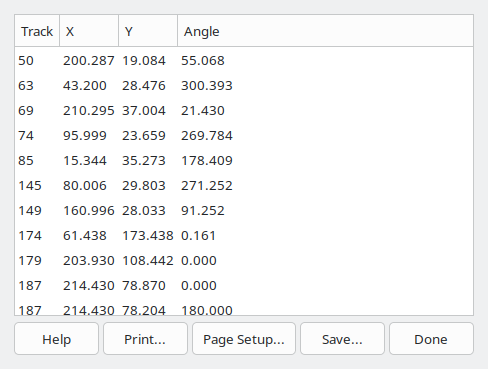
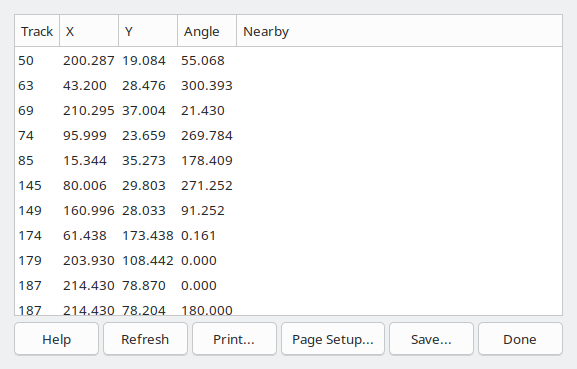
reports: add Nearby-endpoint flag/grouping and a Refresh button
Nearby: flags an unconnected endpoint when another one, on a different
track, lies within connectDistance (the same threshold the editor
itself uses to decide whether two endpoints are close enough to
connect) -- likely a missed connection rather than a deliberate
dead-end stub. Flagged rows are grouped first via a stable reorder of
reportsCurrentList_da; every row stays in the list, nothing is
filtered. Same-track pairs (e.g. a turntable's own spokes) never flag
each other.

Checked LISTCOL_ERROR_COLOR (the GtkListStore column wlib's list infra
reserves for row-highlighting) before building anything new: it's
registered as a column type but nothing in treeview.c/list.c actually
reads it, so leaning on it would mean fixing shared gtk3lib code well
beyond this report's scope. A plain "Nearby" list column plus default
row-order grouping avoids that.

Refresh: recomputes the report in place (no dialog close/reopen).
Wired through a small reportsRefreshProc function pointer set by
whichever report type is currently showing, so the shared dialog
handler doesn't need to hardcode phase-1 specifics -- any future
report phase sets the same hook when it calls ReportsShowText().

Verified both against the live layout23.xtc fixture and via gdb:
computed the real minimum cross-track distance offline (0.137, just
outside the 0.1 default threshold) to confirm the all-blank Nearby
column on that fixture is correct, not a bug; separately proved the
[…]

diff --git a/app/bin/reports.c b/app/bin/reports.c
@@ -1,18 +1,27 @@
 /** \file reports.c
- * Native "Reports" feature (SF #217), phase 1: a generic report-text
- * viewer (Save/Print/Print Setup, same shape as denum.c's "Parts List"
- * dialog -- see the phase-1 implementation plan for why this is built
+ * Native "Reports" feature (SF #217), phase 1: a generic report viewer
+ * (Refresh/Save/Print/Print Setup, same button shape as denum.c's "Parts
+ * List" dialog -- see the phase-1 implementation plan for why this is built
  * generic from the start, meant for every future report phase to reuse)
  * plus the phase-1 report itself, unconnected track endpoints.
  *
  * Phase 1.5 (SF #772, folded into the same ticket -- see the phase-1.5
  * implementation plan) adds interactive click-to-navigate: selecting a row
- * in the (new, alongside the original text view) list control pans the
- * main canvas to that endpoint and draws a transient open-circle
- * indicator. The indicator is a pure draw-overlay (drawn each redraw from
- * draw.c's DrawTempContent(), see ReportsDrawIndicator()) -- never a real
- * track object, so it can never end up in a saved .xtc/.xtce file and
- * needs no undo/redo handling.
+ * in the visible PD_LIST control pans the main canvas to that endpoint and
+ * draws a transient open-circle indicator. The indicator is a pure
+ * draw-overlay (drawn each redraw from draw.c's DrawTempContent(), see
+ * ReportsDrawIndicator()) -- never a real track object, so it can never end
+ * up in a saved .xtc/.xtce file and needs no undo/redo handling.
+ *
+ * The list is also grouped/flagged for "Nearby" endpoints -- see
+ * ReportsMarkNearby() -- and can be recomputed in place via the Refresh
+ * button (reportsRefreshProc) without closing/reopening the dialog.
+ *
+ * Save/Print build their output on demand (ReportsBuildText()/
+ * ReportsRefreshPrintText()) into a hidden PD_TEXT-equivalent control
+ * (reportsT) that's never shown to the user -- see ReportsShowText() for why
+ * it's created via wTextCreate()'s standalone/no-.ui-needed code path
+ * rather than as a builder-bound paramData_t entry.
  *
  * The date-header logic (AddReportDateString()) is deliberately duplicated
  * from denum.c's AddDateString() rather than shared, to keep this
@@ -52,6 +61,7 @@
 #include "paths.h"
 #include "scale.h"
 #include "track.h"
+#include "utility.h"
 #include "include/reports.h"
 
 static wControl_p reportsW;
@@ -64,23 +74,33 @@ static wControl_p reportsW;
  * see that call site for why. */
 static wControl_p reportsT;
 
-#define REPORTSOP_SAVE  (1)
-#define REPORTSOP_PRINT (2)
+#define REPORTSOP_SAVE    (1)
+#define REPORTSOP_PRINT   (2)
+#define REPORTSOP_REFRESH (3)
+
+/** Set by whichever report type is currently showing (only
+ * ReportsUnconnectedEndpoints() today) each time it calls ReportsShowText(),
+ * so the generic Refresh button can recompute + repopulate the current
+ * report in place without this shared viewer needing to know which specific
+ * report is active. Any future report phase should set this the same way
+ * when it calls ReportsShowText(). */
+static void (*reportsRefreshProc)(void *) = NULL;
 
 static void DoReportsOp(void *data);
 static void ReportsDlgUpdate(paramGroup_p pg, int inx, void *valueP);
 static void ReportsCancel(paramGroup_p pg);
 
-static wWinPix_t reportsListWidths[] = { 60, 80, 80, 70 };
+static wWinPix_t reportsListWidths[] = { 60, 80, 80, 70, 60 };
 static const char * reportsListTitles[] = {
-	N_("Track"), N_("X"), N_("Y"), N_("Angle")
+	N_("Track"), N_("X"), N_("Y"), N_("Angle"), N_("Nearby")
 };
-static paramListData_t reportsListData = { 8, 300, 4, reportsListWidths, reportsListTitles };
+static paramListData_t reportsListData = { 8, 300, 5, reportsListWidths, reportsListTitles };
 
 static paramData_t reportsPLs[] = {
 #define I_REPORTSLIST (0)
 #define reportsList (reportsPLs[I_REPORTSLIST].control)
 	{ PD_LIST, NULL, "list", PDO_DLGRESIZE, &reportsListData, NULL, 0 },
+	{ PD_BUTTON, DoReportsOp, "refresh", 0, NULL, NULL, 0, I2VP(REPORTSOP_REFRESH) },
 	{ PD_BUTTON, DoReportsOp, "save", PDO_DLGCMDBUTTON, NULL, NULL, 0, I2VP(REPORTSOP_SAVE) },
 	{ PD_BUTTON, DoReportsOp, "print", 0, NULL, NULL, 0, I2VP(REPORTSOP_PRINT) },
 	{ PD_BUTTON, wPrintSetup, "printsetup", 0, NULL, NULL, 0, NULL },
@@ -141,6 +161,11 @@ static void DoReportsOp(
 	case REPORTSOP_PRINT:
 		ReportsRefreshPrintText();
 		wTextPrint( reportsT );
+		break;
+	case REPORTSOP_REFRESH:
+		if ( reportsRefreshProc ) {
+			reportsRefreshProc( NULL );
+		}
 		break;
 	default:
 		break;
@@ -353,12 +378,70 @@ static void ReportsAddHeader(DynString *out, const char *reportTitle)
 	AddReportDateString(out);
 }
 
+/** Flag entries with another open endpoint, on a *different* track, within
+ * connectDistance (track.h -- the same threshold/definition of "close
+ * enough to connect" used throughout track.c/cturnout.c/ccornu.c/etc.), then
+ * group flagged entries first in reportsCurrentList_da -- a default row
+ * order, not a filter, every entry stays present either way. Endpoints on
+ * the *same* track (e.g. a turntable's own spokes) never flag each other --
+ * those are expected to sit close together and aren't a missed connection.
+ * O(n^2) distance check; fine at this report's realistic scale (checked
+ * against the layout23.xtc fixture, 100+ rows). Must run after the compute
+ * loop that fills reportsCurrentList_da and before ReportsPopulateList(),
+ * since row order here becomes list row order there. */
+static void ReportsMarkNearby(void)
+{
+	int i, j, cnt, outIdx;
+	reportsEndPt_t *entries;
+	reportsEndPt_t *grouped;
+
+	cnt = reportsCurrentList_da.cnt;
+	if ( cnt == 0 ) {
+		return;
+	}
+	entries = (reportsEndPt_t *)reportsCurrentList_da.ptr;
+
+	for ( i = 0; i < cnt; i++ ) {
+		entries[i].nearby = FALSE;
+	}
+	for ( i = 0; i < cnt; i++ ) {
+		for ( j = i + 1; j < cnt; j++ ) {
+			if ( entries[i].trackId == entries[j].trackId ) {
+				continue;
+			}
+			if ( FindDistance(entries[i].pos, entries[j].pos) <= connectDistance ) {
+				entries[i].nearby = TRUE;
+				entries[j].nearby = TRUE;
+			}
+		}
+	}
+
+	grouped = malloc( cnt * sizeof *grouped );
+	outIdx = 0;
+	for ( i = 0; i < cnt; i++ ) {
+		if ( entries[i].nearby ) {
+			grouped[outIdx++] = entries[i];
+		}
+	}
+	for ( i = 0; i < cnt; i++ ) {
+		if ( !entries[i].nearby ) {
+			grouped[outIdx++] = entries[i];
+		}
+	}
+	memcpy( entries, grouped, cnt * sizeof *grouped );
+	free( grouped );
+}
+
 /** Populate the interactive list (phase 1.5) from reportsCurrentList_da --
  * one row per entry, tab-separated (wListAddValue() splits on tabs into
  * columns), each row's context set to that entry's address so
  * ReportsDlgUpdate() can recover it on selection. Must run after
  * ReportsShowText() has run at least once (the list control doesn't exist
- * before the dialog's first creation). */
+ * before the dialog's first creation).
+ *
+ * Rows are shown in reportsCurrentList_da's own order -- ReportsMarkNearby()
+ * has already grouped nearby-flagged entries first, all rows still present,
+ * nothing filtered. */
 static void ReportsPopulateList(void)
 {
 	int i;
@@ -367,8 +450,9 @@ static void ReportsPopulateList(void)
 	wListClear( reportsList );
 	for ( i = 0; i < reportsCurrentList_da.cnt; i++ ) {
 		reportsEndPt_t *entry = &DYNARR_N(reportsEndPt_t, reportsCurrentList_da, i);
-		snprintf( row, sizeof row, "%d\t%.3f\t%.3f\t%.3f",
-		          entry->trackId, entry->pos.x, entry->pos.y, entry->angle );
+		snprintf( row, sizeof row, "%d\t%.3f\t%.3f\t%.3f\t%s",
+		          entry->trackId, entry->pos.x, entry->pos.y, entry->angle,
+		          entry->nearby ? _("Yes") : "" );
 		wListAddValue( reportsList, row, NULL, entry );
 	}
 }
@@ -410,6 +494,7 @@ void ReportsUnconnectedEndpoints( void * unused )
 {
 	track_p trk;
 
+	reportsRefreshProc = ReportsUnconnectedEndpoints;
 	ReportsClearIndicator();
 	DYNARR_FREE( reportsEndPt_t, reportsCurrentList_da );
 	DYNARR_INIT( reportsEndPt_t, reportsCurrentList_da );
@@ -429,6 +514,7 @@ void ReportsUnconnectedEndpoints( void * unused )
 		}
 	}
 
+	ReportsMarkNearby();
 	ReportsShowText( _("Unconnected Endpoints Report") );
 	ReportsPopulateList();
 }

diff --git a/app/bin/include/reports.h b/app/bin/include/reports.h
@@ -40,6 +40,15 @@ typedef struct {
 	coOrd    pos;
 	ANGLE_T  angle;
 	SCALEINX_T scale;
+	/** TRUE if another open endpoint, on a *different* track, lies within
+	 * connectDistance (track.h) of this one -- i.e. this one looks like a
+	 * missed connection rather than a deliberate dead-end stub. Computed
+	 * by ReportsUnconnectedEndpoints() after the full list is known (needs
+	 * every other entry to compare against), not by the compute loop that
+	 * fills the rest of this struct. Appended at the end, after `scale`,
+	 * so existing positional initializers (tests included) don't need
+	 * updating. */
+	BOOL_T nearby;
 } reportsEndPt_t;
 
 /**
